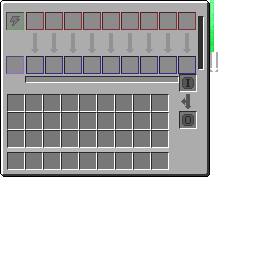
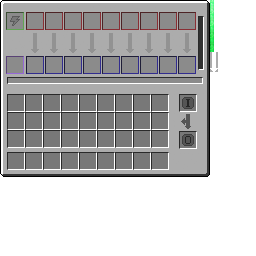
修复终极工厂
终极工厂的GUI现在能按照预期的进行工作了，并修复了部分工厂外观的问题

Changed region(s): [[0.0312, 0.2812, 0.8125, 0.5938]]

diff --git a/src/main/java/mekanism/client/gui/GuiFactory.java b/src/main/java/mekanism/client/gui/GuiFactory.java
@@ -113,6 +113,7 @@ public class GuiFactory extends GuiMekanismTile<TileEntityFactory> {
         fontRenderer.drawString(LangUtils.localize("container.inventory"), 8, (ySize - 93) + 2, 0x404040);
         int xAxis = mouseX - guiLeft;
         int yAxis = mouseY - guiTop;
+        if (tileEntity.tier == FactoryTier.BASIC) {
         if (xAxis >= 165 && xAxis <= 169 && yAxis >= 17 && yAxis <= 69) {
             displayTooltip(MekanismUtils.getEnergyDisplay(tileEntity.getEnergy(), tileEntity.getMaxEnergy()), xAxis, yAxis);
         } else if (xAxis >= 8 && xAxis <= 168 && yAxis >= 78 && yAxis <= 83) {
@@ -125,20 +126,79 @@ public class GuiFactory extends GuiMekanismTile<TileEntityFactory> {
             }
         }
         super.drawGuiContainerForegroundLayer(mouseX, mouseY);
+        }
+        if (tileEntity.tier == FactoryTier.ADVANCED) {
+            if (xAxis >= 165 && xAxis <= 169 && yAxis >= 17 && yAxis <= 69) {
+                displayTooltip(MekanismUtils.getEnergyDisplay(tileEntity.getEnergy(), tileEntity.getMaxEnergy()), xAxis, yAxis);
+            } else if (xAxis >= 8 && xAxis <= 168 && yAxis >= 78 && yAxis <= 83) {
+                if (tileEntity.getRecipeType().getFuelType() == MachineFuelType.ADVANCED) {
+                    GasStack gasStack = tileEntity.gasTank.getGas();
+                    displayTooltip(gasStack != null ? gasStack.getGas().getLocalizedName() + ": " + tileEntity.gasTank.getStored() : LangUtils.localize("gui.none"), xAxis, yAxis);
+                } else if (tileEntity.getRecipeType() == RecipeType.INFUSING) {
+                    InfuseType type = tileEntity.infuseStored.getType();
+                    displayTooltip(type != null ? type.getLocalizedName() + ": " + tileEntity.infuseStored.getAmount() : LangUtils.localize("gui.empty"), xAxis, yAxis);
+                }
+            }
+            super.drawGuiContainerForegroundLayer(mouseX, mouseY);
+        }
+        if (tileEntity.tier == FactoryTier.ELITE) {
+            if (xAxis >= 165 && xAxis <= 169 && yAxis >= 17 && yAxis <= 69) {
+                displayTooltip(MekanismUtils.getEnergyDisplay(tileEntity.getEnergy(), tileEntity.getMaxEnergy()), xAxis, yAxis);
+            } else if (xAxis >= 8 && xAxis <= 168 && yAxis >= 78 && yAxis <= 83) {
+                if (tileEntity.getRecipeType().getFuelType() == MachineFuelType.ADVANCED) {
+                    GasStack gasStack = tileEntity.gasTank.getGas();
+                    displayTooltip(gasStack != null ? gasStack.getGas().getLocalizedName() + ": " + tileEntity.gasTank.getStored() : LangUtils.localize("gui.none"), xAxis, yAxis);
+                } else if (tileEntity.getRecipeType() == RecipeType.INFUSING) {
+                    InfuseType type = tileEntity.infuseStored.getType();
+                    displayTooltip(type != null ? type.getLocalizedName() + ": " + tileEntity.infuseStored.getAmount() : LangUtils.localize("gui.empty"), xAxis, yAxis);
+                }
+            }
+            super.drawGuiContainerForegroundLayer(mouseX, mouseY);
+        }
+        if (tileEntity.tier == FactoryTier.ULTIMATE) {
+            if (xAxis >= 199 && xAxis <= 203 && yAxis >= 17 && yAxis <= 69) {
+                displayTooltip(MekanismUtils.getEnergyDisplay(tileEntity.getEnergy(), tileEntity.getMaxEnergy()), xAxis, yAxis);
+            } else if (xAxis >= 8 && xAxis <= 202 && yAxis >= 78 && yAxis <= 83) {
+                if (tileEntity.getRecipeType().getFuelType() == MachineFuelType.ADVANCED) {
+                    GasStack gasStack = tileEntity.gasTank.getGas();
+                    displayTooltip(gasStack != null ? gasStack.getGas().getLocalizedName() + ": " + tileEntity.gasTank.getStored() : LangUtils.localize("gui.none"), xAxis, yAxis);
+                } else if (tileEntity.getRecipeType() == RecipeType.INFUSING) {
+                    InfuseType type = tileEntity.infuseStored.getType();
+                    displayTooltip(type != null ? type.getLocalizedName() + ": " + tileEntity.infuseStored.getAmount() : LangUtils.localize("gui.empty"), xAxis, yAxis);
+                }
+            }
+            super.drawGuiContainerForegroundLayer(mouseX, mouseY);
+        }
     }
 
     @Override
     protected void drawGuiContainerBackgroundLayer(int xAxis, int yAxis) {
         super.drawGuiContainerBackgroundLayer(xAxis, yAxis);
         int displayInt = tileEntity.getScaledEnergyLevel(52);
-        drawTexturedModalRect(guiLeft + 199, guiTop + 17 + 52 - displayInt, 210, 52 - displayInt, 4, displayInt);
-        int xOffset = tileEntity.tier == FactoryTier.BASIC ? 59 : tileEntity.tier == FactoryTier.ADVANCED ? 39 : tileEntity.tier == FactoryTier.ULTIMATE ? 31 : 31;
+        if (tileEntity.tier == FactoryTier.ULTIMATE) {
+            drawTexturedModalRect(guiLeft + 199, guiTop + 17 + 52 - displayInt, 210, 52 - displayInt, 4, displayInt);
+        }else if (tileEntity.tier == FactoryTier.BASIC) {
+            drawTexturedModalRect(guiLeft + 165, guiTop + 17 + 52 - displayInt, 176, 52 - displayInt, 4, displayInt);
+        }else if (tileEntity.tier == FactoryTier.ADVANCED) {
+            drawTexturedModalRect(guiLeft + 165, guiTop + 17 + 52 - displayInt, 176, 52 - displayInt, 4, displayInt);
+        }else if (tileEntity.tier == FactoryTier.ELITE) {
+            drawTexturedModalRect(guiLeft + 165, guiTop + 17 + 52 - displayInt, 176, 52 - displayInt, 4, displayInt);
+        }
+        int xOffset = tileEntity.tier == FactoryTier.BASIC ? 59 : tileEntity.tier == FactoryTier.ADVANCED ? 39 : tileEntity.tier == FactoryTier.ULTIMATE ? 31 : 33;
         int xDistance = tileEntity.tier == FactoryTier.BASIC ? 38 : tileEntity.tier == FactoryTier.ADVANCED ? 26 : tileEntity.tier == FactoryTier.ULTIMATE ? 19 : 19;
 
         for (int i = 0; i < tileEntity.tier.processes; i++) {
             int xPos = xOffset + (i * xDistance);
             displayInt = tileEntity.getScaledProgress(20, i);
+        if (tileEntity.tier == FactoryTier.BASIC) {
+            drawTexturedModalRect(guiLeft + xPos, guiTop + 33, 176, 52, 8, displayInt);
+        }else if (tileEntity.tier == FactoryTier.ADVANCED) {
+            drawTexturedModalRect(guiLeft + xPos, guiTop + 33, 176, 52, 8, displayInt);
+        }else if (tileEntity.tier == FactoryTier.ELITE) {
+            drawTexturedModalRect(guiLeft + xPos, guiTop + 33, 176, 52, 8, displayInt);
+        }else if (tileEntity.tier == FactoryTier.ULTIMATE) {
             drawTexturedModalRect(guiLeft + xPos, guiTop + 33, 210, 52, 8, displayInt);
+        }
         }
 
         if (tileEntity.getRecipeType().getFuelType() == MachineFuelType.ADVANCED) {
@@ -146,13 +206,30 @@ public class GuiFactory extends GuiMekanismTile<TileEntityFactory> {
                 GasStack gas = tileEntity.gasTank.getGas();
                 if (gas != null) {
                     MekanismRenderer.color(gas);
-                    displayGauge(26, 77, tileEntity.getScaledGasLevel(160), 5, gas.getGas().getSprite());
+                    if (tileEntity.tier == FactoryTier.ULTIMATE) {
+                        displayGauge(8, 78, tileEntity.getScaledGasLevel(194), 5, gas.getGas().getSprite());
+                    }else if (tileEntity.tier == FactoryTier.BASIC) {
+                        displayGauge(8, 78, tileEntity.getScaledGasLevel(160), 5, gas.getGas().getSprite());
+                    }else if (tileEntity.tier == FactoryTier.ADVANCED) {
+                        displayGauge(8, 78, tileEntity.getScaledGasLevel(160), 5, gas.getGas().getSprite());
+                    }else if (tileEntity.tier == FactoryTier.ELITE) {
+                        displayGauge(8, 78, tileEntity.getScaledGasLevel(160), 5, gas.getGas().getSprite());
+                    }
                     MekanismRenderer.resetColor();
                 }
             }
         } else if (tileEntity.getRecipeType() == RecipeType.INFUSING) {
             if (tileEntity.getScaledInfuseLevel(160) > 0) {
-                displayGauge(26, 77, tileEntity.getScaledInfuseLevel(160), 5, tileEntity.infuseStored.getType().sprite);
+                if (tileEntity.tier == FactoryTier.ULTIMATE) {
+                    displayGauge(8, 78, tileEntity.getScaledInfuseLevel(194), 5, tileEntity.infuseStored.getType().sprite);
+                }else if (tileEntity.tier == FactoryTier.BASIC) {
+                    displayGauge(8, 78, tileEntity.getScaledInfuseLevel(160), 5, tileEntity.infuseStored.getType().sprite);
+                }else if (tileEntity.tier == FactoryTier.ADVANCED) {
+                    displayGauge(8, 78, tileEntity.getScaledInfuseLevel(160), 5, tileEntity.infuseStored.getType().sprite);
+                }else if (tileEntity.tier == FactoryTier.ELITE) {
+                    displayGauge(8, 78, tileEntity.getScaledInfuseLevel(160), 5, tileEntity.infuseStored.getType().sprite);
+                }
+
             }
         }
     }
@@ -170,14 +247,44 @@ public class GuiFactory extends GuiMekanismTile<TileEntityFactory> {
         if (button == 0 || Keyboard.isKeyDown(Keyboard.KEY_LSHIFT)) {
             int xAxis = x - guiLeft;
             int yAxis = y - guiTop;
-            if (xAxis > 26 && xAxis < 197 && yAxis > 77 && yAxis < 81) {
-                ItemStack stack = mc.player.inventory.getItemStack();
-                if (!stack.isEmpty() && stack.getItem() instanceof ItemGaugeDropper) {
+            if (tileEntity.tier == FactoryTier.BASIC) {
+                if (xAxis > 8 && xAxis < 168 && yAxis > 78 && yAxis < 83) {
+                    ItemStack stack = mc.player.inventory.getItemStack();
+                    if (!stack.isEmpty() && stack.getItem() instanceof ItemGaugeDropper) {
                     TileNetworkList data = TileNetworkList.withContents(1);
                     Mekanism.packetHandler.sendToServer(new TileEntityMessage(tileEntity, data));
                     SoundHandler.playSound(SoundEvents.UI_BUTTON_CLICK);
+                    }
+                }
+            }else if(tileEntity.tier == FactoryTier.ADVANCED) {
+                if (xAxis > 8 && xAxis < 168 && yAxis > 78 && yAxis < 83) {
+                    ItemStack stack = mc.player.inventory.getItemStack();
+                    if (!stack.isEmpty() && stack.getItem() instanceof ItemGaugeDropper) {
+                        TileNetworkList data = TileNetworkList.withContents(1);
+                        Mekanism.packetHandler.sendToServer(new TileEntityMessage(tileEntity, data));
+                        SoundHandler.playSound(SoundEvents.UI_BUTTON_CLICK);
+                    }
+                }
+            }else if(tileEntity.tier == FactoryTier.ELITE) {
+                if (xAxis > 8 && xAxis < 168 && yAxis > 78 && yAxis < 83) {
+                    ItemStack stack = mc.player.inventory.getItemStack();
+                    if (!stack.isEmpty() && stack.getItem() instanceof ItemGaugeDropper) {
+                        TileNetworkList data = TileNetworkList.withContents(1);
+                        Mekanism.packetHandler.sendToServer(new TileEntityMessage(tileEntity, data));
+                        SoundHandler.playSound(SoundEvents.UI_BUTTON_CLICK);
+                    }
+                }
+            }else if(tileEntity.tier == FactoryTier.ULTIMATE) {
+                if (xAxis > 8 && xAxis < 202 && yAxis > 78 && yAxis < 83) {
+                    ItemStack stack = mc.player.inventory.getItemStack();
+                    if (!stack.isEmpty() && stack.getItem() instanceof ItemGaugeDropper) {
+                        TileNetworkList data = TileNetworkList.withContents(1);
+                        Mekanism.packetHandler.sendToServer(new TileEntityMessage(tileEntity, data));
+                        SoundHandler.playSound(SoundEvents.UI_BUTTON_CLICK);
+                    }
                 }
             }
+
         }
     }
 

diff --git a/src/main/java/mekanism/common/inventory/container/ContainerFactory.java b/src/main/java/mekanism/common/inventory/container/ContainerFactory.java
@@ -26,14 +26,43 @@ public class ContainerFactory extends ContainerMekanism<TileEntityFactory> {
     @Override
     protected void addSlots() {
         addSlotToContainer(new SlotDischarge(tileEntity, 1, 7, 13));
-        addSlotToContainer(new Slot(tileEntity, 2, 180, 75) {
-            @Override
-            public boolean isItemValid(ItemStack stack) {
-                MachineType swapType = MachineType.get(stack);
-                return swapType != null && !swapType.isFactory();
-            }
-        });
-        addSlotToContainer(new SlotOutput(tileEntity, 3, 180, 112));
+        if (tileEntity.tier == FactoryTier.BASIC) {
+            addSlotToContainer(new Slot(tileEntity, 2, 180, 75) {
+                @Override
+                public boolean isItemValid(ItemStack stack) {
+                    MachineType swapType = MachineType.get(stack);
+                    return swapType != null && !swapType.isFactory();
+                }
+            });
+            addSlotToContainer(new SlotOutput(tileEntity, 3, 180, 112));
+        }else if(tileEntity.tier == FactoryTier.ADVANCED) {
+            addSlotToContainer(new Slot(tileEntity, 2, 180, 75) {
+                @Override
+                public boolean isItemValid(ItemStack stack) {
+                    MachineType swapType = MachineType.get(stack);
+                    return swapType != null && !swapType.isFactory();
+                }
+            });
+            addSlotToContainer(new SlotOutput(tileEntity, 3, 180, 112));
+        }else if(tileEntity.tier == FactoryTier.ELITE) {
+            addSlotToContainer(new Slot(tileEntity, 2, 180, 75) {
+                @Override
+                public boolean isItemValid(ItemStack stack) {
+                    MachineType swapType = MachineType.get(stack);
+                    return swapType != null && !swapType.isFactory();
+                }
+            });
+            addSlotToContainer(new SlotOutput(tileEntity, 3, 180, 112));
+        }else if(tileEntity.tier == FactoryTier.ULTIMATE) {
+            addSlotToContainer(new Slot(tileEntity, 2, 180, 95) {
+                @Override
+                public boolean isItemValid(ItemStack stack) {
+                    MachineType swapType = MachineType.get(stack);
+                    return swapType != null && !swapType.isFactory();
+                }
+            });
+            addSlotToContainer(new SlotOutput(tileEntity, 3, 180, 132));
+        }
         addSlotToContainer(new Slot(tileEntity, 4, 7, 57));
         if (tileEntity.tier == FactoryTier.BASIC) {
             for (int i = 0; i < tileEntity.tier.processes; i++) {

diff --git a/src/main/java/mekanism/client/gui/element/GuiRecipeType2.java b/src/main/java/mekanism/client/gui/element/GuiRecipeType2.java
@@ -17,20 +17,20 @@ public class GuiRecipeType2 extends GuiTileEntityElement<TileEntityFactory> {
 
     @Override
     public Rectangle4i getBounds(int guiWidth, int guiHeight) {
-        return new Rectangle4i(guiWidth + 176, guiHeight + 70, 26, 63);
+        return new Rectangle4i(guiWidth + 176, guiHeight + 90, 26, 63);
     }
 
     @Override
     protected boolean inBounds(int xAxis, int yAxis) {
-        return xAxis >= 180 && xAxis <= 196 && (yAxis >= 75 && yAxis <= 91 || yAxis >= 112 && yAxis <= 128);
+        return xAxis >= 180 && xAxis <= 196 && (yAxis >= 95 && yAxis <= 111 || yAxis >= 132 && yAxis <= 148);
     }
 
     @Override
     public void renderBackground(int xAxis, int yAxis, int guiWidth, int guiHeight) {
         mc.renderEngine.bindTexture(RESOURCE);
-        guiObj.drawTexturedRect(guiWidth + 176, guiHeight + 70, 0, 0, 26, 63);
+        guiObj.drawTexturedRect(guiWidth + 176, guiHeight + 90, 0, 0, 26, 63);
         int displayInt = tileEntity.getScaledRecipeProgress(15);
-        guiObj.drawTexturedRect(guiWidth + 181, guiHeight + 94, 26, 0, 10, displayInt);
+        guiObj.drawTexturedRect(guiWidth + 181, guiHeight + 114, 26, 0, 10, displayInt);
         mc.renderEngine.bindTexture(defaultLocation);
     }
 

diff --git a/src/main/java/mekanism/client/gui/element/GuiRedstoneControl2.java b/src/main/java/mekanism/client/gui/element/GuiRedstoneControl2.java
@@ -35,10 +35,10 @@ public class GuiRedstoneControl2 extends GuiTileEntityElement<TileEntity> {
     @Override
     public void renderBackground(int xAxis, int yAxis, int guiWidth, int guiHeight) {
         mc.renderEngine.bindTexture(RESOURCE);
-        guiObj.drawTexturedRect(guiWidth + 176, guiHeight + 138, 0, 0, 26, 26);
+        guiObj.drawTexturedRect(guiWidth + 176, guiHeight + 148, 0, 0, 26, 26);
         IRedstoneControl control = (IRedstoneControl) tileEntity;
         int renderX = 26 + (18 * control.getControlType().ordinal());
-        guiObj.drawTexturedRect(guiWidth + 179, guiHeight + 142, renderX, inBounds(xAxis, yAxis) ? 0 : 18, 18, 18);
+        guiObj.drawTexturedRect(guiWidth + 179, guiHeight + 152, renderX, inBounds(xAxis, yAxis) ? 0 : 18, 18, 18);
         mc.renderEngine.bindTexture(defaultLocation);
     }
 
